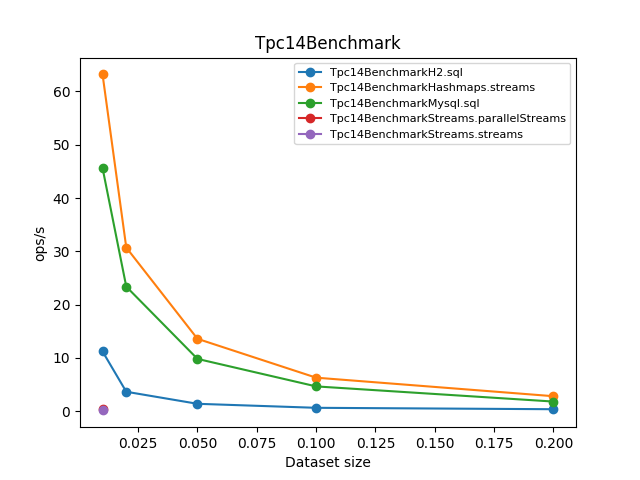
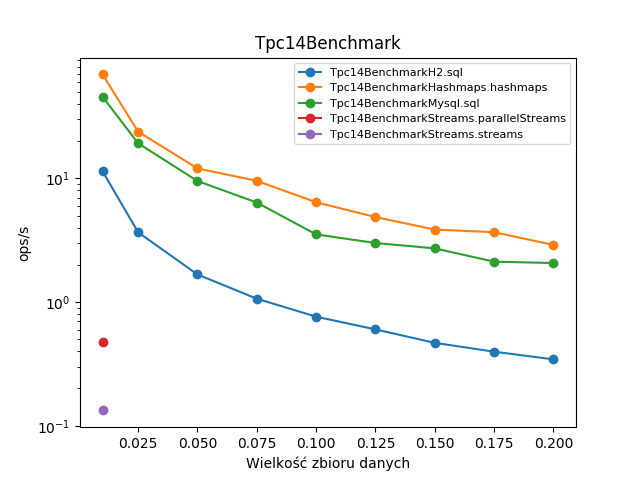
Tpc proper graphs

diff --git a/text/src/content.tex b/text/src/content.tex
@@ -653,7 +653,7 @@ order by customers.name;
 
 \subsection{Proces wykonywania zapytania strumieniowego}
 
-    Podobnie jak w przypadku języka SQL, zapytanie strumieniowe wykonuje się w kilku etapach. Ważną różnicą jest to, że nie występuje tutaj żaden mechanizm parsowania i tłumaczenia kodu, ponieważ zwykły kod języka Java jest już skompilowany do kodu bajtowego i wykonywany na maszynie wirtualnej Java. Maszyna wirtualna Javy po uruchomieniu programu realizuje dużą liczbę optymalizacji kodu, więc możliwe jest uzyskanie wzrostu wydajności jedynie dzięki tym optymalizacjom. Fragment kodu \ref{streamsexample} przezentuje zapytanie strumieniowe odpowiadające zapytaniu z listingu \ref{sqlexample} :
+    Podobnie jak w przypadku języka SQL, zapytanie strumieniowe wykonuje się w kilku etapach. Ważną różnicą jest to, że nie występuje tutaj żaden mechanizm parsowania i tłumaczenia kodu, ponieważ zwykły kod języka Java jest już skompilowany do kodu bajtowego i wykonywany na maszynie wirtualnej Java. Maszyna wirtualna Javy po uruchomieniu programu realizuje dużą liczbę optymalizacji kodu, więc możliwe jest uzyskanie wzrostu wydajności jedynie dzięki tym optymalizacjom. Fragment kodu \ref{streamsexample} przezentuje zapytanie strumieniowe odpowiadające zapytaniu z listingu \ref{sqlexample}:
 
 \begin{lstlisting}[label=streamsexample, caption=Analogiczne rozwiązanie wykorzystujące Stream API]
 List<Pair<String, Double>> result = StreamUtils.innerJoin(
@@ -769,7 +769,7 @@ Filtering: 5
 
     Przy wykonywaniu zapytania SQL z poziomu API JDBC nie istnieje żadne sprawdzanie poprawniości zapytania oraz jego składni w czasie kompilacji. Zapytanie wysyłane jest jako zwykły ciąg znaków do serwera bazodanowego, który następnie odczytuje zapytanie i przystępuje do jego interpretacji i wykonania. W związku z tym niemożliwe jest zapewnienie, czy dana tabela istnieje, albo czy dana funkcja SQL istnieje w danym oprogramowaniu bazy danych. Istnieją co prawda rozwiązania typu ORM, które chronią programistę przed niewłaściwym wykorzystaniem obiektu odwzorowanego na tabelę, albo edytory programistyczne z integracjami z serwerami baz, które umożliwiają przeskanowanie istniejących symboli (nazw tabel, kolumn itp.) i skorygowanie programisty, natomiast są to rozwiązania zewnętrzne, działające poza językiem Java. Przetwarzanie strumieniowe odbywa się w całości w języku Java, który jest silnie typowany, przez co niewłaściwe wykorzystanie konstrukcji języka zostanie automatycznie dostrzeżone przez kompilator.
     
-    Jako przykład przedstawiona zostanie sygnatura statycznej metody \texttt{Collectors.groupingBy}, we fragmencie \ref{genericsexample}. Dzięki zastosowaniu typów ogólnych \cite{generics} (generycznych), możliwe jest zagwarantowanie zgodności typów, o ile nie zostanie zastosowanie niebezpieczne rzutowanie.
+    Jako przykład dobrana została sygnatura statycznej metody \texttt{Collectors.groupingBy}, zaprezentowana we fragmencie \ref{genericsexample}. Dzięki zastosowaniu typów ogólnych \cite{generics} (generycznych), możliwe jest zagwarantowanie zgodności typów, o ile nie zostanie zastosowanie niebezpieczne rzutowanie.
 
 \begin{lstlisting}[label=genericsexample, caption=Sygnatura metody grupującej]
   public static <T, K> Collector<T, ?, Map<K, List<T>>>
@@ -896,13 +896,9 @@ Rozwiązanie to jest znacznie szybsze, wymaga jednak unikalności wartości kluc
 
 \subsection{Wnioski}
 
-strumienie i FP wygodne
-strumienie do przetwarzania w pamięci zrównoleglalnch rzeczy - super
-parallel ma narzut
-sql do pamięci - może być, ale potrzebne np. pamięci z podtrzymaniem, jeśli dane są ważne to słabo (bakcupy)
-strumienie nie nadają się do skomplikowanych operacji bez dużej ilości kodu, statyczne typowanie wchodzi w drogę, 
-raczej ciągi pojedynczych obiektów, nie osobne kolekcje
-nie chodzi tu tylko o szybkość, ale np. backupy i wsparcie vendorów
+    Stream API w połączeniu z wyrażeniami lambda jest bardzo przydatną nowością wprowadzoną w Javie 8. Wprowadzone niewielkie części paradygmatu funkcyjnego pozwalają na pisanie wydajnego i łatwo testowalnego kodu. Strumienie są bardzo dobrą alternatywą dla tradycyjnych elementów składni języka, jak pętle i warunki, które można zastąpić przez metody Stream API. Z drugiej strony, strumienie działają najlepiej na pojedynczych kolekcjach homegenicznych obiektów, próby łączenia wielu kolekcji charakteryzujących się typowo relacyjną strukturą nie jest wspierane domyślnie i okazuje się znacznie utrudnione. Tworzenie skomplikowanych sekwencji operacji, zwłaszcza własnoręcznie definiowanych, jest zdecydowanie bardziej skomplikowane i wymaga znacznie więcej kodu niż w języku SQL, który do takich operacji został stworzony. Możliwe jest osiągnięcie znacznych szybkości wykonywania zapytań SQL w pamięci, natomiast należy mieć na uwadze, że wydajność nie jest najważniejszą rzeczą w systemie bazodanowym. Należy zwrócić uwagę na wsparcie producentów, narzędzia wspomagające (np. analizatory planu zapytań) i bezpieczeństwo (kopie zapasowe, metody replikacji), ponieważ w ogólnym rozrachunku elementy te mają bardzo duże znaczenie.
+
+    Strumienie doskonale nadają się do prostego przetwarzania równoległych danych, pod warunkiem, że całe zadanie daje się łatwo rekurencyjnie podzielić na mniejsze podzadania, a szybkość wykonywania zależna jest od mocy obliczeniowej procesora. W prostych przypadkach sama zmiana strumienia z domyślnego sekwencyjnego na równoległy może przynieść kilkukrotny wzrost wydajności. Należy jednak zwrócić uwagę, iż strumienie równoległe mają pewien narzut, który, w przypadku małych zbiorów danych, bądź zbyt małej ilości pracy do wykonania w podzadaniu, może okazać się większy, niż narzut strumieni sekwencyjnych. Warto więc zawsze badać, czy próba optymalizacji na pewno przyniesie oczekiwane efekty.
 
 
 \subsection{Napotkane problemy}

diff --git a/src/jmh/java/masterthesis/tpc/tpc12/Tpc12BenchmarkMysql.java b/src/jmh/java/masterthesis/tpc/tpc12/Tpc12BenchmarkMysql.java
@@ -17,7 +17,7 @@ public class Tpc12BenchmarkMysql {
     
     Connection connection;
     
-    @Param({"0.01", "0.02", "0.05", "0.1", "0.2"})
+    @Param({"0.010", "0.025", "0.050", "0.075", "0.100", "0.125", "0.150", "0.175", "0.200"})
     public String scaleFactor;
     
     @Setup

diff --git a/src/jmh/java/masterthesis/tpc/tpc14/Tpc14BenchmarkMysql.java b/src/jmh/java/masterthesis/tpc/tpc14/Tpc14BenchmarkMysql.java
@@ -18,7 +18,7 @@ public class Tpc14BenchmarkMysql {
     
     Connection connection;
     
-    @Param({"0.01", "0.02", "0.05", "0.1", "0.2"})
+    @Param({"0.010", "0.025", "0.050", "0.075", "0.100", "0.125", "0.150", "0.175", "0.200"})
     public String scaleFactor;
     
     @Setup

diff --git a/src/jmh/java/masterthesis/tpc/tpc1/Tpc1BenchmarkMysql.java b/src/jmh/java/masterthesis/tpc/tpc1/Tpc1BenchmarkMysql.java
@@ -20,7 +20,7 @@ public class Tpc1BenchmarkMysql {
     
     Connection connection;
     
-    @Param({"0.01", "0.02", "0.05", "0.1", "0.2"})
+    @Param({"0.010", "0.025", "0.050", "0.075", "0.100", "0.125", "0.150", "0.175", "0.200"})
     public String scaleFactor;
     
     @Setup

diff --git a/src/jmh/java/masterthesis/tpc/tpc6/Tpc6BenchmarkMysql.java b/src/jmh/java/masterthesis/tpc/tpc6/Tpc6BenchmarkMysql.java
@@ -18,7 +18,7 @@ public class Tpc6BenchmarkMysql {
     
     Connection connection;
     
-    @Param({"0.01", "0.02", "0.05", "0.1", "0.2"})
+    @Param({"0.010", "0.025", "0.050", "0.075", "0.100", "0.125", "0.150", "0.175", "0.200"})
     public String scaleFactor;
     
     @Setup

diff --git a/src/jmh/java/masterthesis/tpc/tpc12/Tpc12BenchmarkH2.java b/src/jmh/java/masterthesis/tpc/tpc12/Tpc12BenchmarkH2.java
@@ -17,7 +17,7 @@ public class Tpc12BenchmarkH2 {
     
     Connection connection;
     
-    @Param({"0.01", "0.02", "0.05", "0.1", "0.2"})
+    @Param({"0.010", "0.025", "0.050", "0.075", "0.100", "0.125", "0.150", "0.175", "0.200"})
     public String scaleFactor;
     
     @Setup

diff --git a/src/jmh/java/masterthesis/tpc/tpc14/Tpc14BenchmarkH2.java b/src/jmh/java/masterthesis/tpc/tpc14/Tpc14BenchmarkH2.java
@@ -18,7 +18,7 @@ public class Tpc14BenchmarkH2 {
     
     Connection connection;
     
-    @Param({"0.01", "0.02", "0.05", "0.1", "0.2"})
+    @Param({"0.010", "0.025", "0.050", "0.075", "0.100", "0.125", "0.150", "0.175", "0.200"})
     public String scaleFactor;
     
     @Setup

diff --git a/src/jmh/java/masterthesis/tpc/tpc1/Tpc1BenchmarkH2.java b/src/jmh/java/masterthesis/tpc/tpc1/Tpc1BenchmarkH2.java
@@ -20,7 +20,7 @@ public class Tpc1BenchmarkH2 {
     
     Connection connection;
     
-    @Param({"0.01", "0.02", "0.05", "0.1", "0.2"})
+    @Param({"0.010", "0.025", "0.050", "0.075", "0.100", "0.125", "0.150", "0.175", "0.200"})
     public String scaleFactor;
     
     @Setup

diff --git a/src/jmh/java/masterthesis/tpc/tpc6/Tpc6BenchmarkH2.java b/src/jmh/java/masterthesis/tpc/tpc6/Tpc6BenchmarkH2.java
@@ -18,7 +18,7 @@ public class Tpc6BenchmarkH2 {
     
     Connection connection;
     
-    @Param({"0.01", "0.02", "0.05", "0.1", "0.2"})
+    @Param({"0.010", "0.025", "0.050", "0.075", "0.100", "0.125", "0.150", "0.175", "0.200"})
     public String scaleFactor;
     
     @Setup

diff --git a/src/jmh/java/masterthesis/tpc/tpc12/Tpc12BenchmarkHashmaps.java b/src/jmh/java/masterthesis/tpc/tpc12/Tpc12BenchmarkHashmaps.java
@@ -27,7 +27,7 @@ public class Tpc12BenchmarkHashmaps {
     
     Store store;
     
-    @Param({"0.01", "0.02", "0.05", "0.1", "0.2"})
+    @Param({"0.010", "0.025", "0.050", "0.075", "0.100", "0.125", "0.150", "0.175", "0.200"})
     public String scaleFactor;
     
     @Setup

diff --git a/src/jmh/java/masterthesis/tpc/tpc14/Tpc14BenchmarkHashmaps.java b/src/jmh/java/masterthesis/tpc/tpc14/Tpc14BenchmarkHashmaps.java
@@ -27,7 +27,7 @@ public class Tpc14BenchmarkHashmaps {
     
     Store store;
     
-    @Param({"0.01", "0.02", "0.05", "0.1", "0.2"})
+    @Param({"0.010", "0.025", "0.050", "0.075", "0.100", "0.125", "0.150", "0.175", "0.200"})
     public String scaleFactor;
     
     @Setup

diff --git a/src/jmh/java/masterthesis/tpc/tpc1/Tpc1BenchmarkStreams.java b/src/jmh/java/masterthesis/tpc/tpc1/Tpc1BenchmarkStreams.java
@@ -25,7 +25,7 @@ public class Tpc1BenchmarkStreams {
     
     Store store;
     
-    @Param({"0.01", "0.02", "0.05", "0.1", "0.2"})
+    @Param({"0.010", "0.025", "0.050", "0.075", "0.100", "0.125", "0.150", "0.175", "0.200"})
     public String scaleFactor;
     
     @Setup
